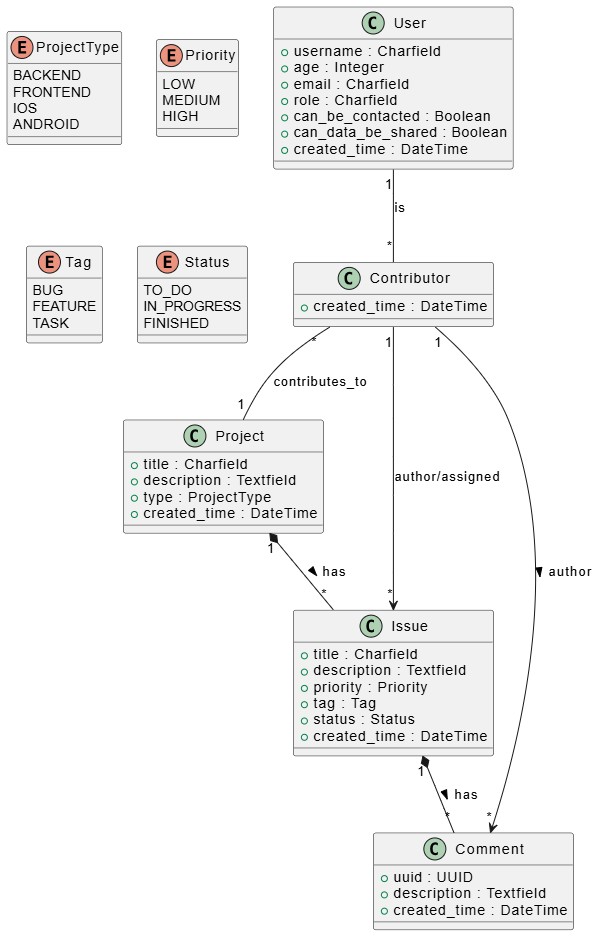
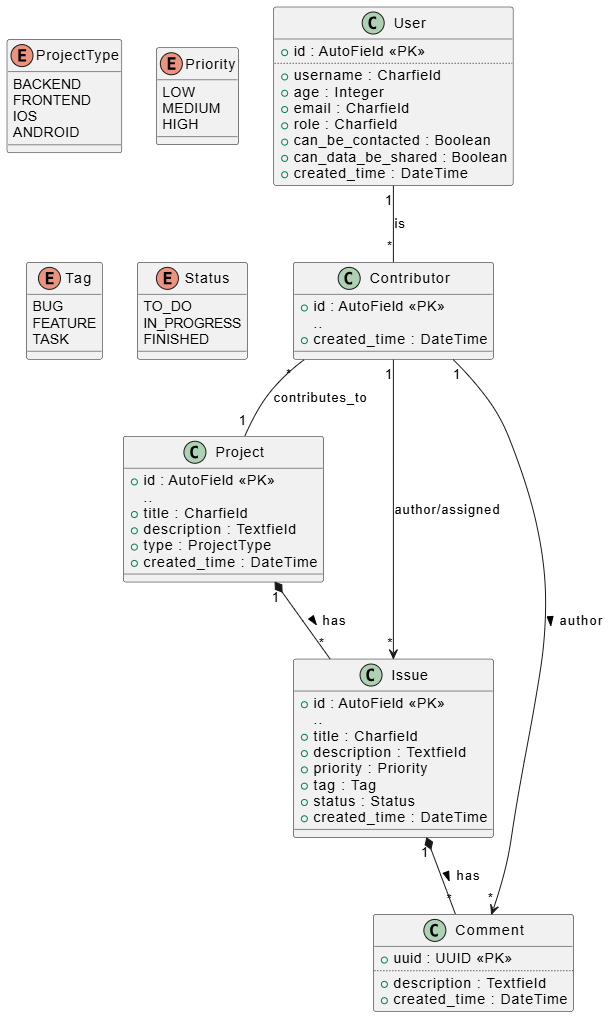
Création du diagrammede classes

diff --git a/src/SoftDesk_API/models.py b/src/SoftDesk_API/models.py
@@ -10,3 +10,35 @@ class User(models.Model):
     can_be_contacted = models.BooleanField(default=True)
     can_data_be_shared = models.BooleanField(default=True)
     created_time = models.DateTimeField(auto_now_add=True)
+
+
+class Contributor(models.Model):
+
+    user = models.ForeignKey('User', on_delete=models.CASCADE)
+    project = models.ForeignKey('Project', on_delete=models.CASCADE)
+
+
+class Project(models.Model):
+    title = models.CharField(max_length=200)
+    description = models.TextField()
+    type = models.CharField(max_length=50)
+    contributors = models.ManyToManyField(User, through=Contributor)
+    created_time = models.DateTimeField(auto_now_add=True)
+
+
+class Issue(models.Model):
+    title = models.CharField(max_length=200)
+    description = models.TextField()
+    priority = models.CharField(max_length=50)
+    tag = models.CharField(max_length=50)
+    status = models.CharField(max_length=50)
+    created_time = models.DateTimeField(auto_now_add=True)
+
+
+class Comment(models.Model):
+    uuid = models.UUIDField(primary_key=True, editable=False)
+    description = models.TextField()
+    created_time = models.DateTimeField(auto_now_add=True)
+    issue = models.ForeignKey('Issue', on_delete=models.CASCADE)
+    author = models.ForeignKey('User', on_delete=models.CASCADE)
+    project = models.ForeignKey('Project', on_delete=models.CASCADE)
